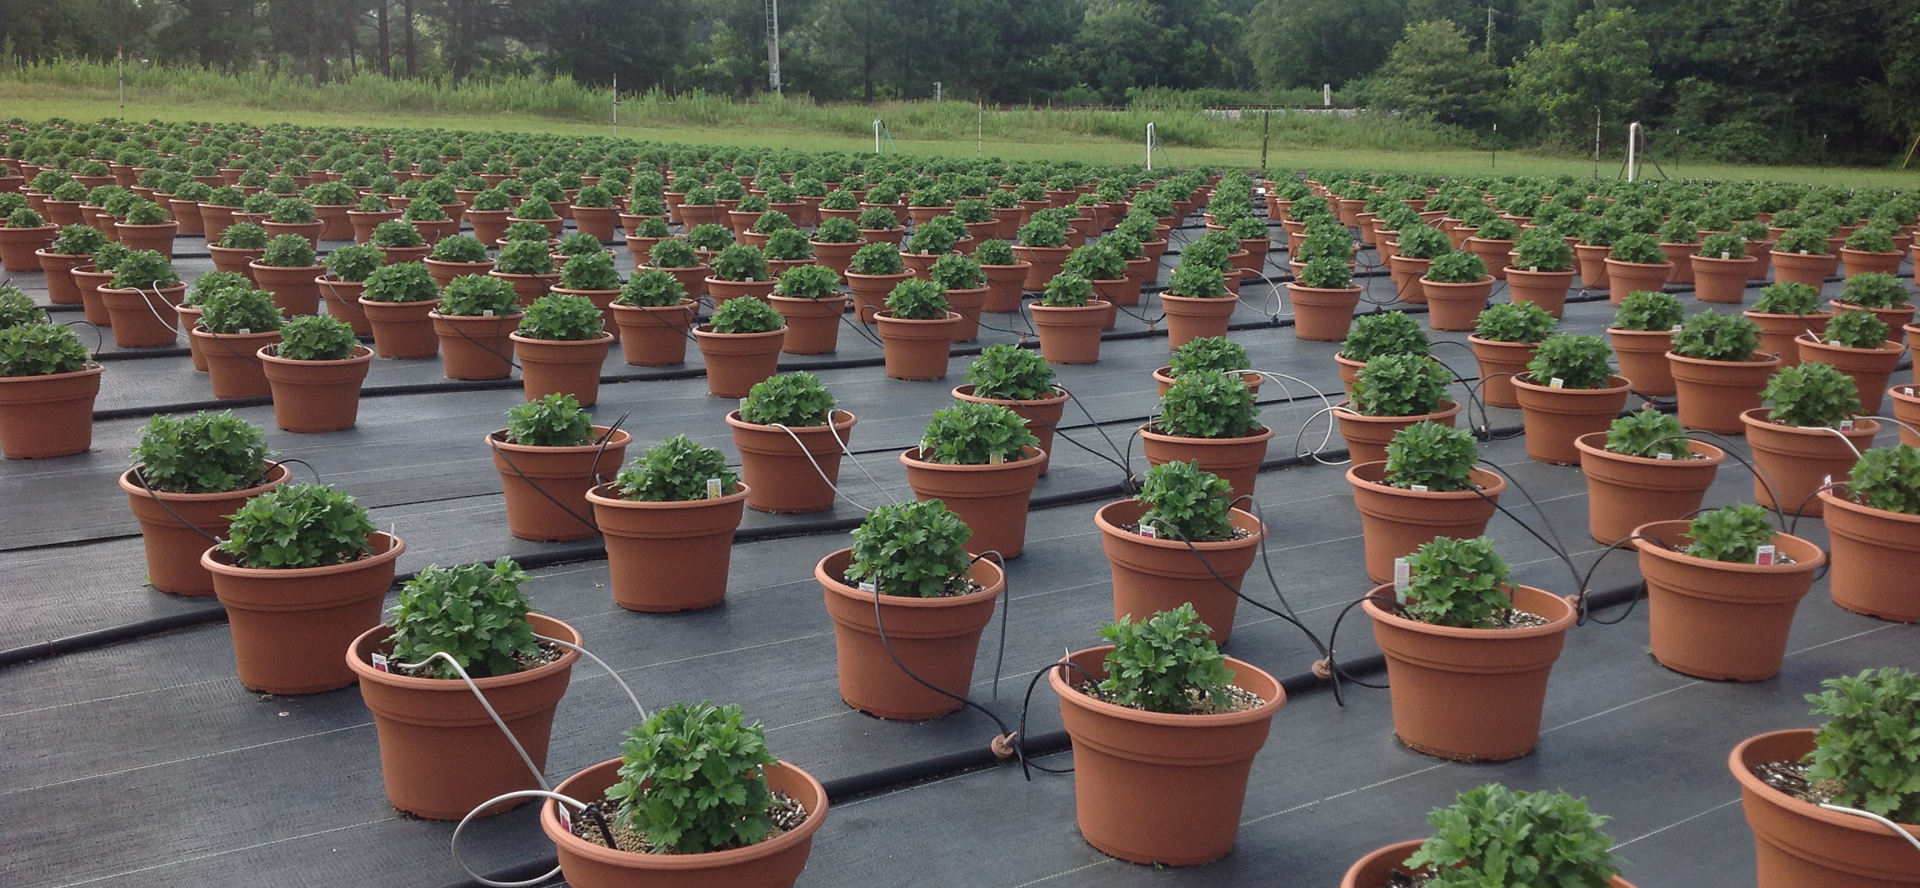
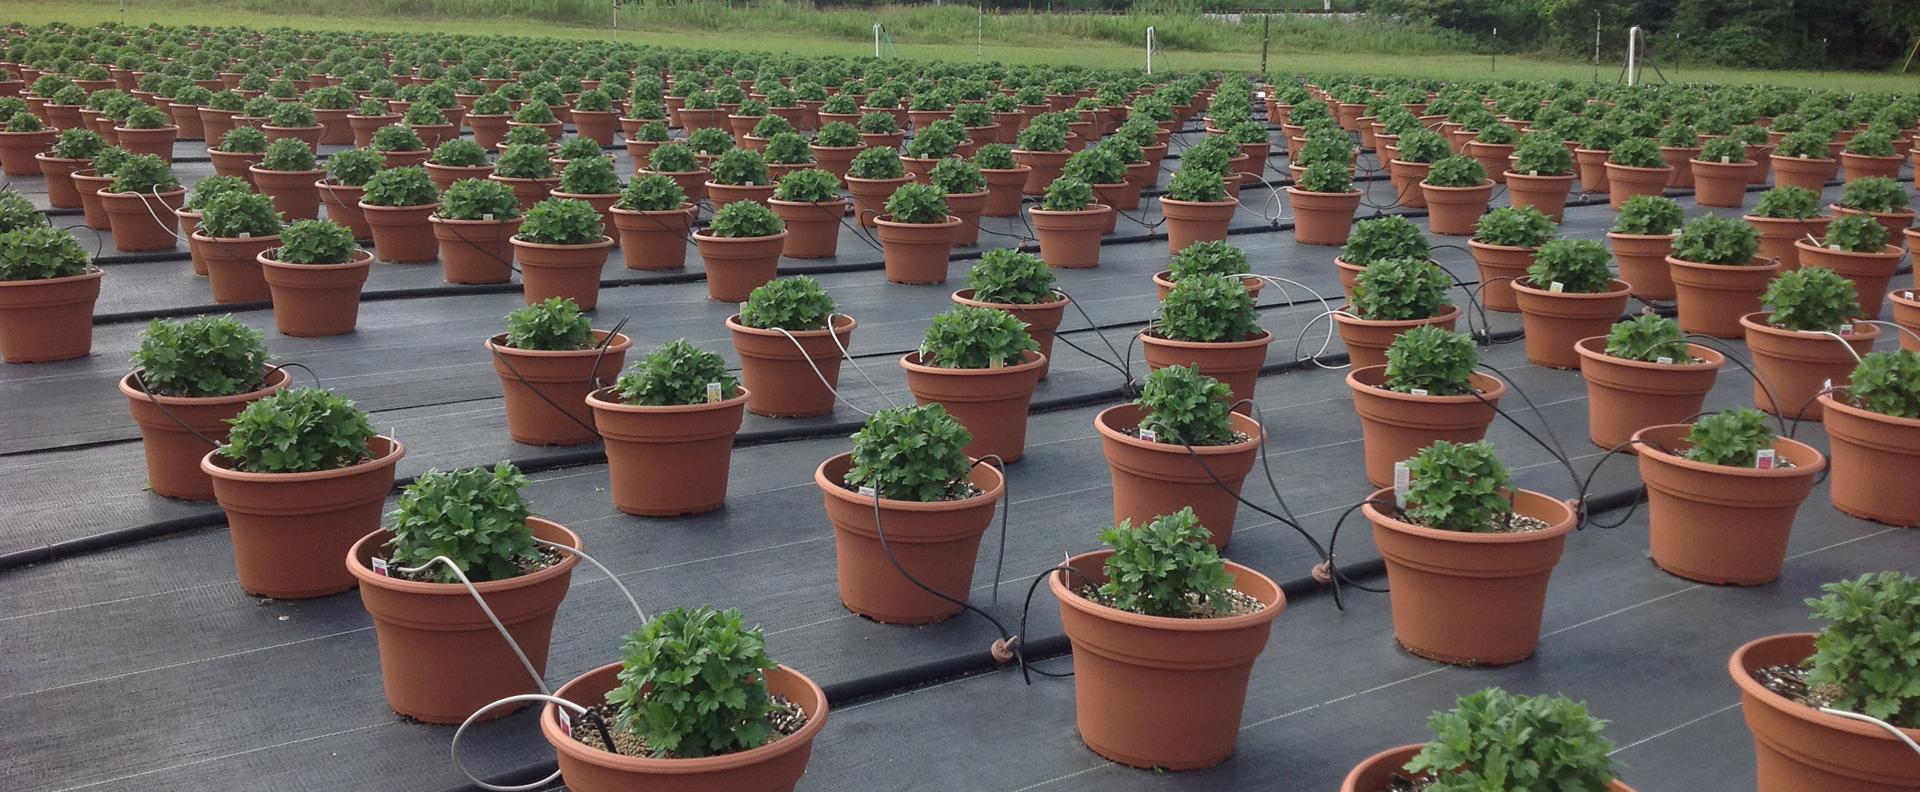
Undid the changes I made to the landing page, kind of.

diff --git a/app/assets/stylesheets/index.css b/app/assets/stylesheets/index.css
@@ -30,7 +30,7 @@
 }
 
 .carousel .item {
-  height: 700px;
+  height: 550px;
 }
 
 .carousel-inner > .item > img {
@@ -41,7 +41,7 @@
 }
 
 .carousel-control {
-  padding-top: 325px;
+  padding-top: 225px;
   font-size: 100px;
   width: 5%;
 }
